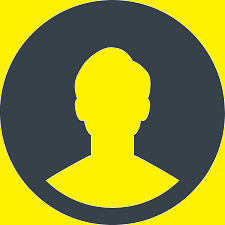
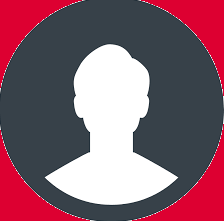
change colors

diff --git a/CovidStatisticsApp/CovidStatisticsApp/Views/WindowLogin.xaml b/CovidStatisticsApp/CovidStatisticsApp/Views/WindowLogin.xaml
@@ -6,7 +6,7 @@
         xmlns:local="clr-namespace:CovidStatisticsApp.Views"
         mc:Ignorable="d"
         Title="WindowLogin" Height="386" Width="646">
-    <Grid Background="#FF81BD2A">
+    <Grid Background="#FF63786A">
         <TextBox x:Name="TextBoxFirstName" HorizontalAlignment="Left" Height="23" Margin="340,145,0,0" TextWrapping="Wrap" VerticalAlignment="Top" Width="120" RenderTransformOrigin="0.493,0.478"/>
         <TextBox x:Name="TextBoxLastName" HorizontalAlignment="Left" Height="23" Margin="340,190,0,0" TextWrapping="Wrap" VerticalAlignment="Top" Width="120"/>
         <PasswordBox x:Name="PasswordBoxPassword" HorizontalAlignment="Left" Margin="340,236,0,0" VerticalAlignment="Top" Height="25" Width="120"/>
@@ -15,11 +15,12 @@
         <Label x:Name="LabelFirstName" Content="First Name" HorizontalAlignment="Left" Margin="216,145,0,0" VerticalAlignment="Top" Width="94" FontFamily="Segoe UI Black" FontSize="14"/>
         <Label Content="Last Name" HorizontalAlignment="Left" Margin="216,187,0,0" VerticalAlignment="Top" Width="94" FontFamily="Segoe UI Black" FontSize="14"/>
         <Label x:Name="LabelPassword" Content="Password" HorizontalAlignment="Left" Margin="216,232,0,0" VerticalAlignment="Top" Width="94" FontFamily="Segoe UI Black" FontSize="14"/>
-        <Image HorizontalAlignment="Left" Height="81" Margin="283,46,0,0" VerticalAlignment="Top" Width="83" Source="user.png"/>
+        <Image HorizontalAlignment="Left" Height="66" Margin="227,61,0,0" VerticalAlignment="Top" Width="83" Source="user.png"/>
         <Button x:Name="ButtonSignUp" Content="Sign Up" HorizontalAlignment="Left" Margin="371,292,0,0" VerticalAlignment="Top" Width="104"/>
         <Label x:Name="LabelSignUp" Content="" HorizontalAlignment="Left" Margin="154,321,0,0" VerticalAlignment="Top" Width="134"/>
         <Button x:Name="ButtonChangePassword" Content="Change Password" HorizontalAlignment="Left" Margin="371,321,0,0" VerticalAlignment="Top" Width="104"/>
         <Label x:Name="LabelChangePassword" Content="Forget password?" HorizontalAlignment="Left" Margin="247,318,0,0" VerticalAlignment="Top"/>
         <Label x:Name="LabelSignUp1" Content="Don't have an account?" HorizontalAlignment="Left" Margin="216,290,0,0" VerticalAlignment="Top"/>
+        <Image HorizontalAlignment="Left" Height="66" Margin="340,61,0,0" VerticalAlignment="Top" Width="120" Source="covid graph.png"/>
     </Grid>
 </Window>

diff --git a/CovidStatisticsApp/CovidStatisticsApp/Views/WindowLogin.xaml.cs b/CovidStatisticsApp/CovidStatisticsApp/Views/WindowLogin.xaml.cs
@@ -23,12 +23,9 @@ namespace CovidStatisticsApp.Views
         {
             InitializeComponent();
             //Set colors of backgrounds in Login Window
-            ButtonSignIn.Background = Brushes.Yellow;
-            ButtonChangePassword.Background = Brushes.Yellow;
-            ButtonSignUp.Background = Brushes.Yellow;
-            TextBoxFirstName.Background = Brushes.Yellow;
-            TextBoxLastName.Background = Brushes.Yellow;
-            PasswordBoxPassword.Background = Brushes.Yellow;
+            ButtonSignIn.Background = Brushes.IndianRed;
+            ButtonChangePassword.Background = Brushes.IndianRed;
+            ButtonSignUp.Background = Brushes.IndianRed;
         }
 
         /// <summary>
